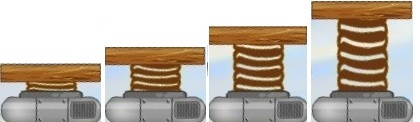
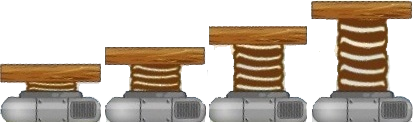
Answered of the Doncho's question + Removed background of spring.png

diff --git a/JS2TeamWork_TeamCasper/CasperTheGhost/CasperTheGhost.html b/JS2TeamWork_TeamCasper/CasperTheGhost/CasperTheGhost.html
@@ -6,11 +6,11 @@
 <body>
     <div id="canvas-container"></div>
     <script src="Scripts/kinetic-v5.1.0.min.js"></script>
-    <!--<script src="Scripts/Engine.js"></script>-->
-    <script src="Scripts/button.js"></script>
-    <script src="Scripts/spring.js"></script>
+    <script src="Scripts/Engine.js"></script>
+    <!--<script src="Scripts/button.js"></script>
+    <script src="Scripts/spring.js"></script>-->
 
-    <script>
+    <!--<script>
         //test
         var drawField = new Kinetic.Stage({
             container: 'canvas-container',
@@ -29,6 +29,6 @@
         layerOne.add(buttonImage);
         drawField.add(layerOne);
 
-    </script>
+    </script>-->
 </body>
 </html>

diff --git a/JS2TeamWork_TeamCasper/CasperTheGhost/Scripts/Engine.js b/JS2TeamWork_TeamCasper/CasperTheGhost/Scripts/Engine.js
@@ -16,6 +16,6 @@ var rect = new Kinetic.Rect({
     height: 93
 });
 
-layer.add(rect);
+layerOne.add(rect);
 drawField.add(layerOne);
 //TEST
